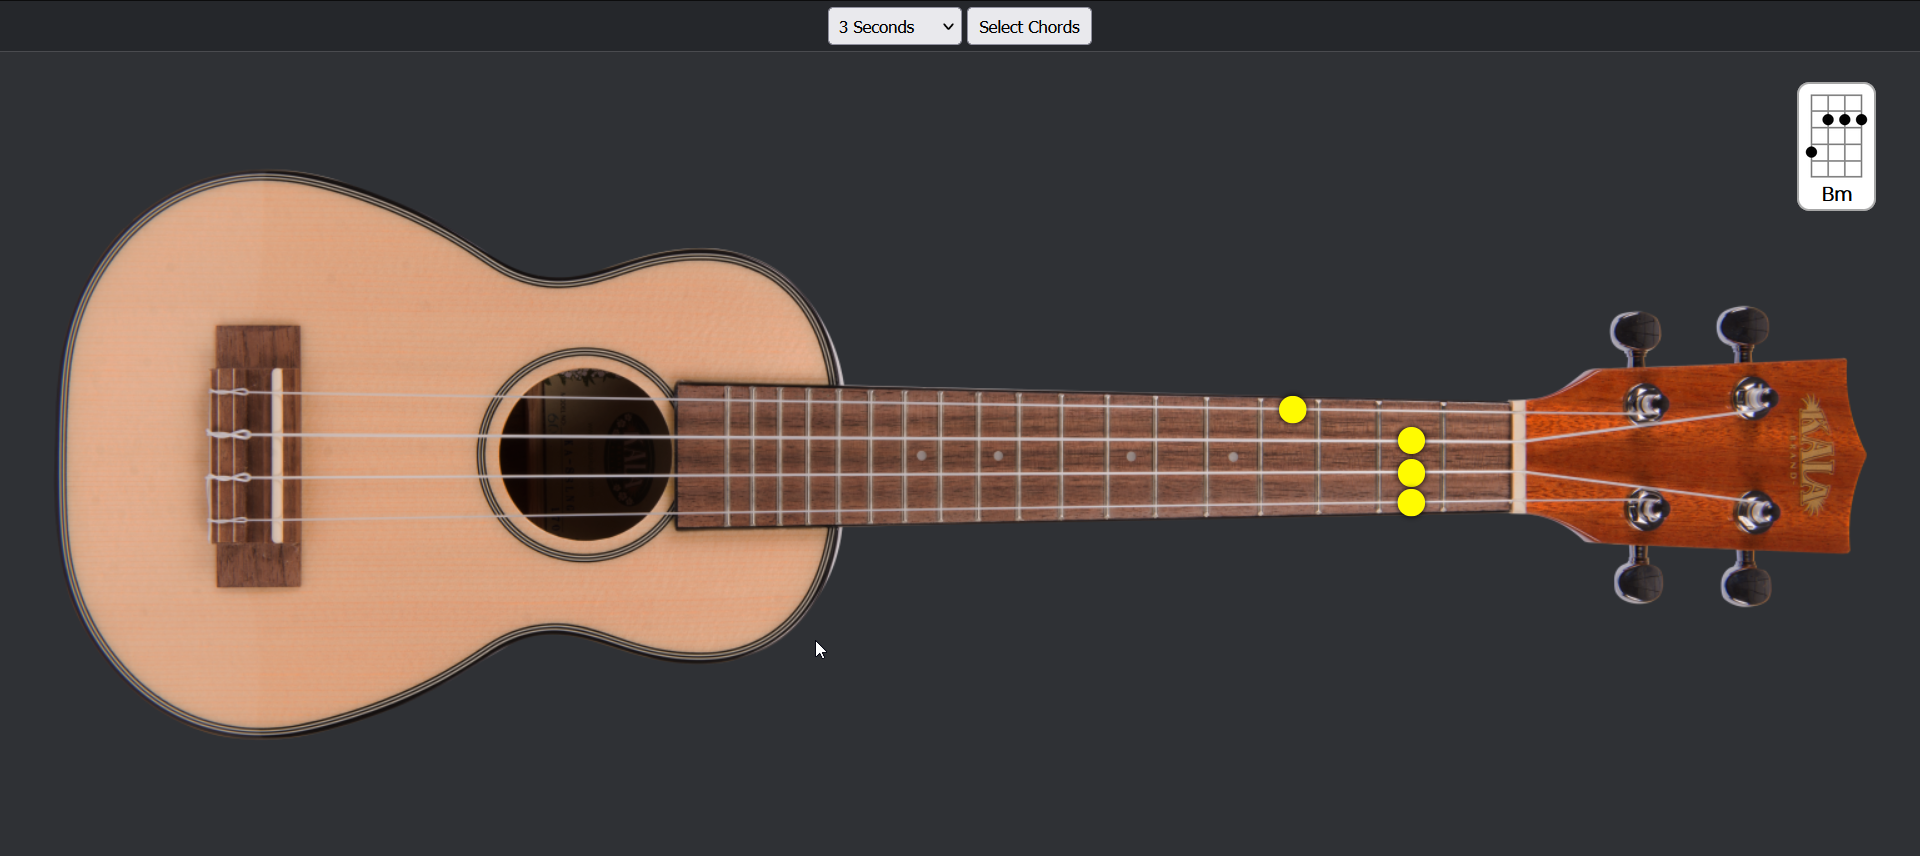
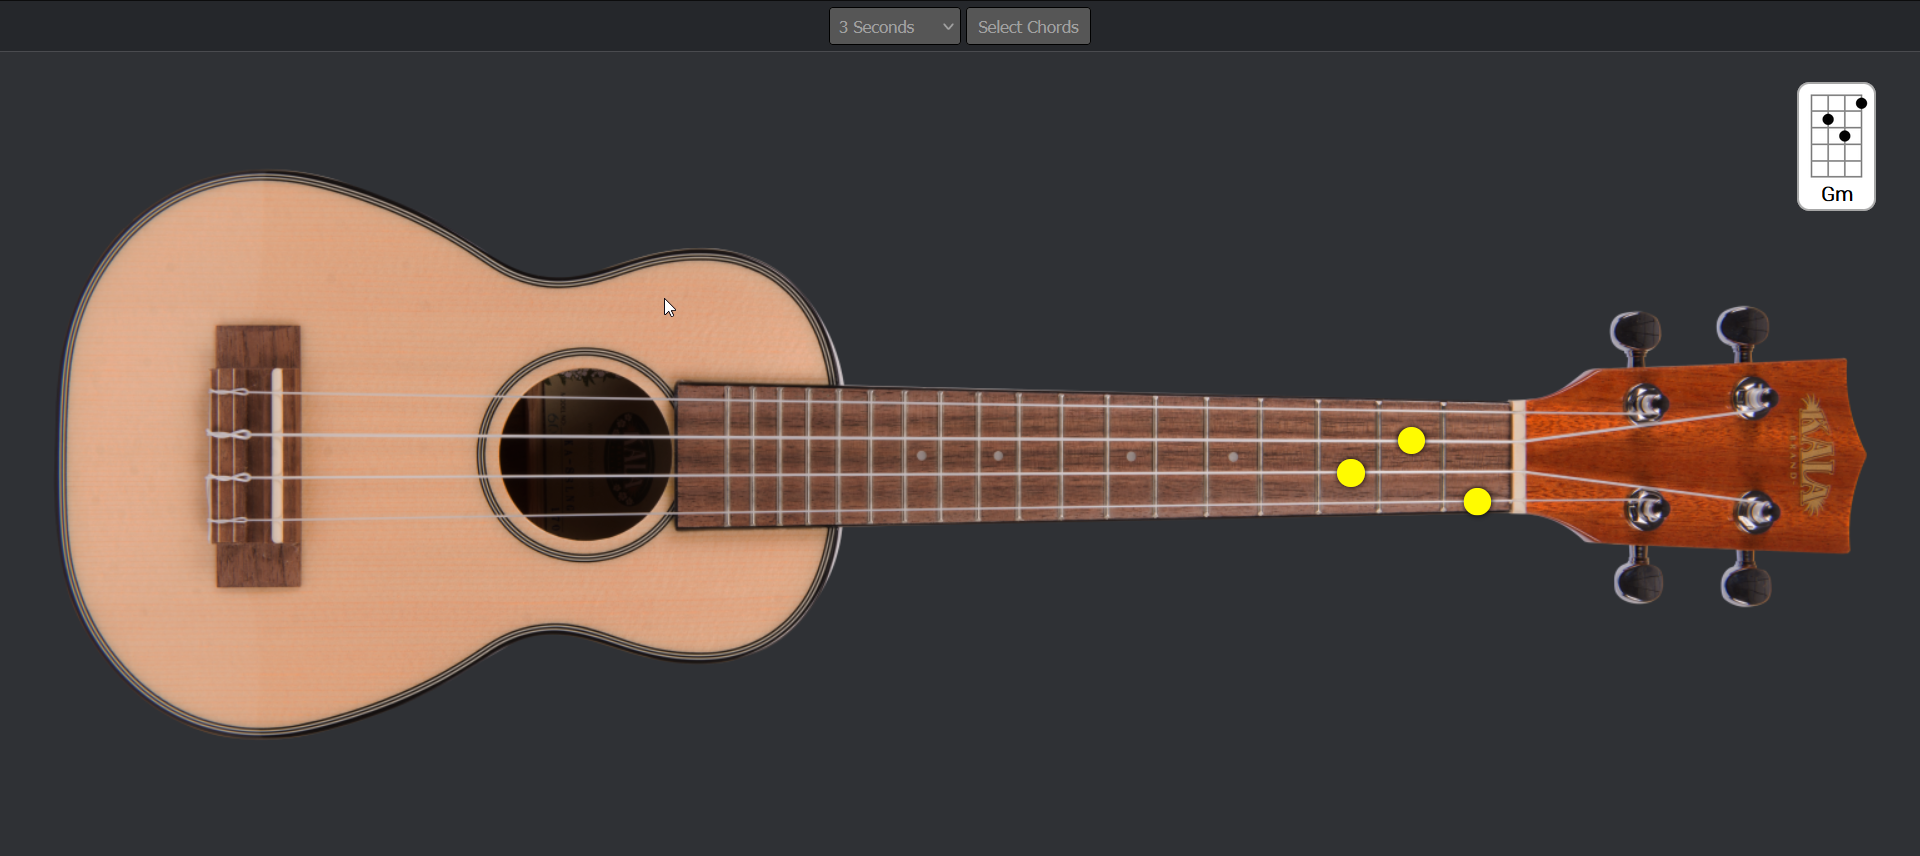
Updated css + images

diff --git a/styles/styles.css b/styles/styles.css
@@ -134,11 +134,11 @@ li.enabled span {
 
 }
 
-#chords-popup span:hover {
+/* #chords-popup span:hover {
 
 	background-color: rgba(168, 151, 151, 0.418)
 
-}
+} */
 
 #chords-popup span.disabled {
 
@@ -166,6 +166,10 @@ select, button {
 	height: 30px;
 	padding: 3px;
 	margin-top: 5px;
+	background-color: #5b5b5be6;
+	border-radius: 3px;
+	border: 1px solid black;
+	color: #a1a1a1;
 
 }
 

diff --git a/scripts/scripts.js b/scripts/scripts.js
@@ -269,5 +269,5 @@ function init(){
 	setTimeout(() => {
 		select_chord(get_random_chord())
 		requestAnimationFrame(select_random_chord)
-	}, 3000);
+	}, 2000);
 }
